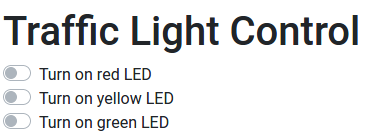
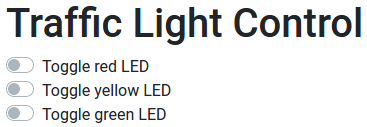
Finish the traffic-light-ui README.md

diff --git a/traffic-light/traffic-light-ui/src/client/index.html b/traffic-light/traffic-light-ui/src/client/index.html
@@ -5,11 +5,10 @@
     <meta charset="UTF-8">
     <meta name="viewport" content="width=device-width, initial-scale=1">
 
-    <link rel="stylesheet" href="styles/styles.css" type="text/css">
     <link rel="stylesheet" href="styles/bootstrap.min.css" type="text/css">
-    <script src="main.js" async></script>
+    <script src="js/main.js" async></script>
 </head>
-<body>
+<body class="p-2">
 <div class="container">
     <div class="row">
         <h1>Traffic Light Control</h1>
@@ -17,19 +16,19 @@
     <div class="row">
         <div class="custom-control custom-switch">
             <input type="checkbox" class="custom-control-input" id="switch-led-red">
-            <label for="switch-led-red" class="custom-control-label">Turn on red LED</label>
+            <label for="switch-led-red" class="custom-control-label">Toggle red LED</label>
         </div>
     </div>
     <div class="row">
         <div class="custom-control custom-switch">
             <input type="checkbox" class="custom-control-input" id="switch-led-yellow">
-            <label for="switch-led-yellow" class="custom-control-label">Turn on yellow LED</label>
+            <label for="switch-led-yellow" class="custom-control-label">Toggle yellow LED</label>
         </div>
     </div>
     <div class="row">
         <div class="custom-control custom-switch">
             <input type="checkbox" class="custom-control-input" id="switch-led-green">
-            <label for="switch-led-green" class="custom-control-label">Turn on green LED</label>
+            <label for="switch-led-green" class="custom-control-label">Toggle green LED</label>
         </div>
     </div>
 </div>

diff --git a/traffic-light/traffic-light-ui/src/client/js/main.js b/traffic-light/traffic-light-ui/src/client/js/main.js
@@ -7,11 +7,11 @@ const greenLEDButton = document.querySelector('#switch-led-green');
 
 // Whenever one of the LEDs gets enabled, we need to submit the new information to the server
 // and disable the remaining buttons
-redLEDButton.addEventListener('click', () => turnOn('red'));
-yellowLEDButton.addEventListener('click', () => turnOn('yellow'));
-greenLEDButton.addEventListener('click', () => turnOn('green'));
+redLEDButton.addEventListener('click', () => toggle('red'));
+yellowLEDButton.addEventListener('click', () => toggle('yellow'));
+greenLEDButton.addEventListener('click', () => toggle('green'));
 
-const turnOn = async (color) => {
+const toggle = async (color) => {
   console.log(`Toggling ${color}`);
   const data = JSON.stringify({led: color});
   try {

diff --git a/traffic-light/traffic-light-ui/README.md b/traffic-light/traffic-light-ui/README.md
@@ -52,12 +52,188 @@ The packages needed in this project are
 - [cors](https://www.npmjs.com/package/cors)
 - [express](https://www.npmjs.com/package/express)
 - [onoff](https://www.npmjs.com/package/onoff)
-- [typescript](https://www.npmjs.com/package/typescript)
 - [ts-node](https://www.npmjs.com/package/ts-node)
+- [typescript](https://www.npmjs.com/package/typescript)
 
 As a reference, the full code can be found in the [package.json](./package.json) file.
 
 ## Code
+
+### Project structure
+We are going to use the code from the previous project, but need to move it to have a better separation of client and server.
+The new structure will look like this
+```
+traffic-light-ui
+|-- package.json
+|-- node_modules
+|-- server
+    |-- server.ts
+|-- client
+    |-- index.html
+    |-- js
+        |-- main.js
+    |-- styles
+        |-- bootstrap.min.css
+```
+
+### Server
+Most of our code from the previous projects will stay the same, but we have to add some additional logic to make it run 
+as a server.
+We start with adding the necessary dependencies
+```typescript
+import * as express from 'express';
+import * as bodyParser from 'body-parser';
+import * as cors from 'cors';
+```
+The `express` package holds the necessary methods for creating a RESTful server.
+The `body-parser` package provides the server with a middleware, which converts the request body into a JSON.
+Finally, the `cors` package gives us the ability to connect to the server from a different device.
+If you don't want this (or only want to connect to the server on the same machine), you can remove the code for that.
+
+Now we can create the actual server 
+```typescript
+const app = express();
+app.use(bodyParser.json());
+app.use(cors());
+```
+The first line creates a HTTP server, the second tells the server to convert the request body into a JSON object and the 
+third one allows us to make cross site requests.
+
+The server needs to know where the client files are in order to be able to serve them.
+The serving is done with the `express.static()` method, where the parameter is the location of the client folder.
+```typescript
+app.use(express.static(__dirname + '/../client'));
+``` 
+`__dirname` is the current working directory, and the concatenated string gives us the location of the client directory.
+
+Now we need to tell the server to serve at a given port.
+To have some feedback that the server started, we pass as a second argument a `console.log()`.
+```typescript
+const port: number = 9000;
+const server = app.listen(port, () => console.log(`Traffic light app listening at http://localhost:${port}`));
+```
+
+The server is running, but has no endpoints.
+We only need one, a `POST` endpoint, which handles the request which LED needs to be lit up.
+This is done with the `app.post()` method.
+```typescript
+app.post('/', (req, res) => {
+    const LED: string = req.body.led;
+    if (!(LED === 'red' || LED === 'yellow' || LED === 'green')) {
+        res.send(`Sorry, we don't know ${LED}. Please choose 'red', 'yellow' or 'green'.`);
+    }
+    // Switch to the correct pin
+    let pin: Gpio;
+    switch (LED) {
+        case "red":
+            pin = RED;
+            break;
+        case "yellow":
+            pin = YELLOW;
+            break;
+        case "green":
+            pin = GREEN;
+            break;
+        default:
+            break;
+    }
+    toggle(pin);
+
+    // Send empty response for confirmation
+    res.send();
+});
+```
+We handle the incoming request and decide upon the received `led` string which LED to toggle.
+We made a slight change here: We went back to the `toggle` method, which was used in the 
+[blinking led](../../blinking-led) project.
+This gives the user the ability to control the LEDs individually.
+The toggle method toggles between `Gpio.LOW` and `Gpio.HIGH`.
+```typescript
+function toggle(pin: Gpio): void {
+    const status = pin.readSync();
+    pin.writeSync(status === Gpio.HIGH ? Gpio.LOW : Gpio.HIGH);
+}
+```
+Lastly, we need to handle closing the application in the server.
+We have already covered this in the [Traffic Light with command line](../traffic-light-cmd) project.
+The listener for an interrupt looks like
+```typescript
+process.on('SIGINT', () => {
+    LEDs.forEach(LED => freePin(LED));    
+    server.close();
+    process.exit(0);
+});
+```
+
+### Client
+The client code uses a static [index.html](./src/client/index.html) and a [main.js](./src/client/main.js) file in
+combination with [bootstrap](https://getbootstrap.com/).
+If you haven't already, create a `index.html` and `main.js` file in the `client` directory.
+
+#### index.html
+In order to use the CSS and JS files, we write
+```html
+<link rel="stylesheet" href="styles/bootstrap.min.css" type="text/css">
+<script src="js/main.js" async></script>
+```
+in the `<head>` tag.
+This assumes, that you have already downloaded bootstrap and stored it locally in the `styles` folder.
+
+The toggle buttons are just simple checkboxes.
+```html
+<input type="checkbox" id="switch-led-red">
+<input type="checkbox" id="switch-led-yellow">
+<input type="checkbox" id="switch-led-green">
+```
+So whenever you click on one of the checkboxes, the LED state should toggle.
+For this we need the [main.js](src/client/js/main.js) file.
+
+#### main.js
+Before we can connect to the server, we need to tell the client where to find the server.
+In our case it is at `http://192.168.1.132:9000`, but if you are running the client on the same device as the server, then
+you can simply take `http://localhost:9000`.
+```js
+const serverURL = 'http://192.168.1.132:9000';
+```
+Each of the LED buttons should get a click listener, telling to toggle the chosen LED.
+```js
+document.querySelector('#switch-led-red').addEventListener('click', () => toggle('red'));
+document.querySelector('#switch-led-yellow').addEventListener('click', () => toggle('yellow'));
+document.querySelector('#switch-led-green').addEventListener('click', () => toggle('green'));
+```
+Now we can write the code for sending the LED color.
+```js
+const toggle = async (color) => {
+  const data = JSON.stringify({led: color});
+  try {
+    await fetch(serverURL, {
+      method: 'POST',
+      body: data,
+      headers: {
+        'Content-Type': 'application/json'
+      }
+    });
+  } catch (error) {
+    console.log(error);
+  }
+};
+```
+This method uses the ES2017 (ES8) `async await` syntax for making the asynchronous code easier to read instead of using the 
+`Promise` or even the `XMLHttpRequest` APIs.
+
+The data we want to send is a JSON object with the LED color in it.
+We decided to call the property `led` with the color as the value.
+This is also assumed in the server.
+Since the data transmission is done via a string, we need to stringify the JSON object first.
+Inside the `try` block we write the request to the server.
+The first parameter is the server address, the second parameter is a JSON object, which contains the necessary 
+information for the server.
+
+The method is `POST`, therefore the server will receive the request in `app.post('/')`, the body is the request body, 
+which needs to include the `led` string.
+The `headers` object with the content type needs to be set, so that the server knows, that the body is a JSON object.
+
+With this the code for the client-server LED control is done.
 
 As a reference, the full server code can be found in the [server.ts](src/server/server.ts) file, while the 
 client can be found in the [client](./src/client) directory.
@@ -71,10 +247,16 @@ npm run start
 ```
 in the console.
 This will start the server and also the client.
-You should now be able to connect to `http://localhost:9000` (or whatever port you chose in [server.ts](src/server/server.ts)).
+After a few seconds, you should be able to see in the console, that the server started under `http://localhost:9000`.
+You should now be able to connect to `http://localhost:9000` (or whatever port you chose in [server.ts](src/server/server.ts))
+in a browser.
+If you want to access the server from a different device, we need to find out what address the Raspberry Pi runs on.
+In our case it is `http://192.168.1.132:9000`.
 You will see a page like this
 
 ![Traffic light control panel image](./images/traffic-light-ui.png)
+
+Pressing one of the buttons will toggle the state of the LED.
 
 ## Notes
 With this we conclude the traffic light project.

diff --git a/binary-counter/README.md b/binary-counter/README.md
@@ -1,1 +1,2 @@
 # binary-counter
+Coming soon
